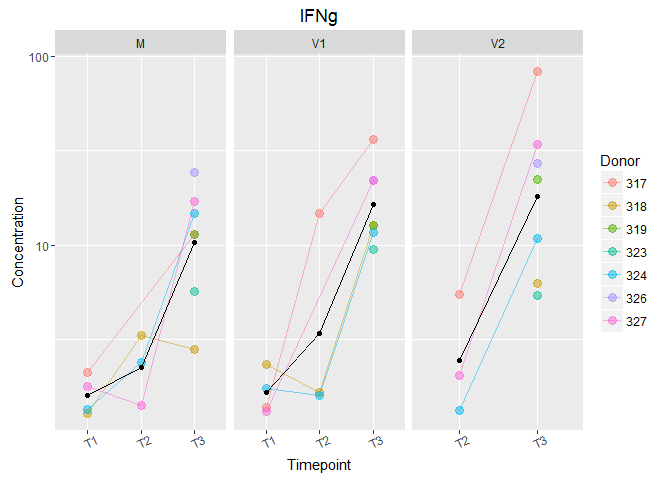
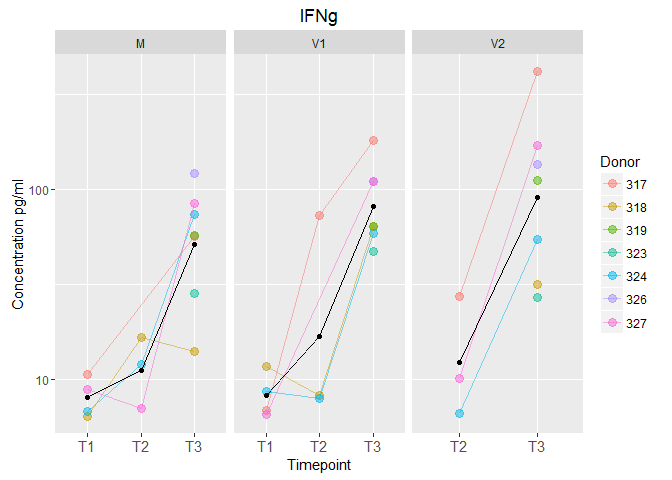
Multiplied the concentrations of the sup by 5 to estimate stock concentration

diff --git a/MSD_panels_1_2_3_explant_sup_analysis.md b/MSD_panels_1_2_3_explant_sup_analysis.md
@@ -74,7 +74,7 @@ Explant Supernatents: Detection Range
 Plots of analyte concentrations
 -------------------------------
 
-Black points show the means.
+We did a 1:5 dilution of the samples so I multiplied the concentrations by 5 to get an estimate of the stock suparnatent concentration. Black points show the means.
 
 Caveats
 -------
